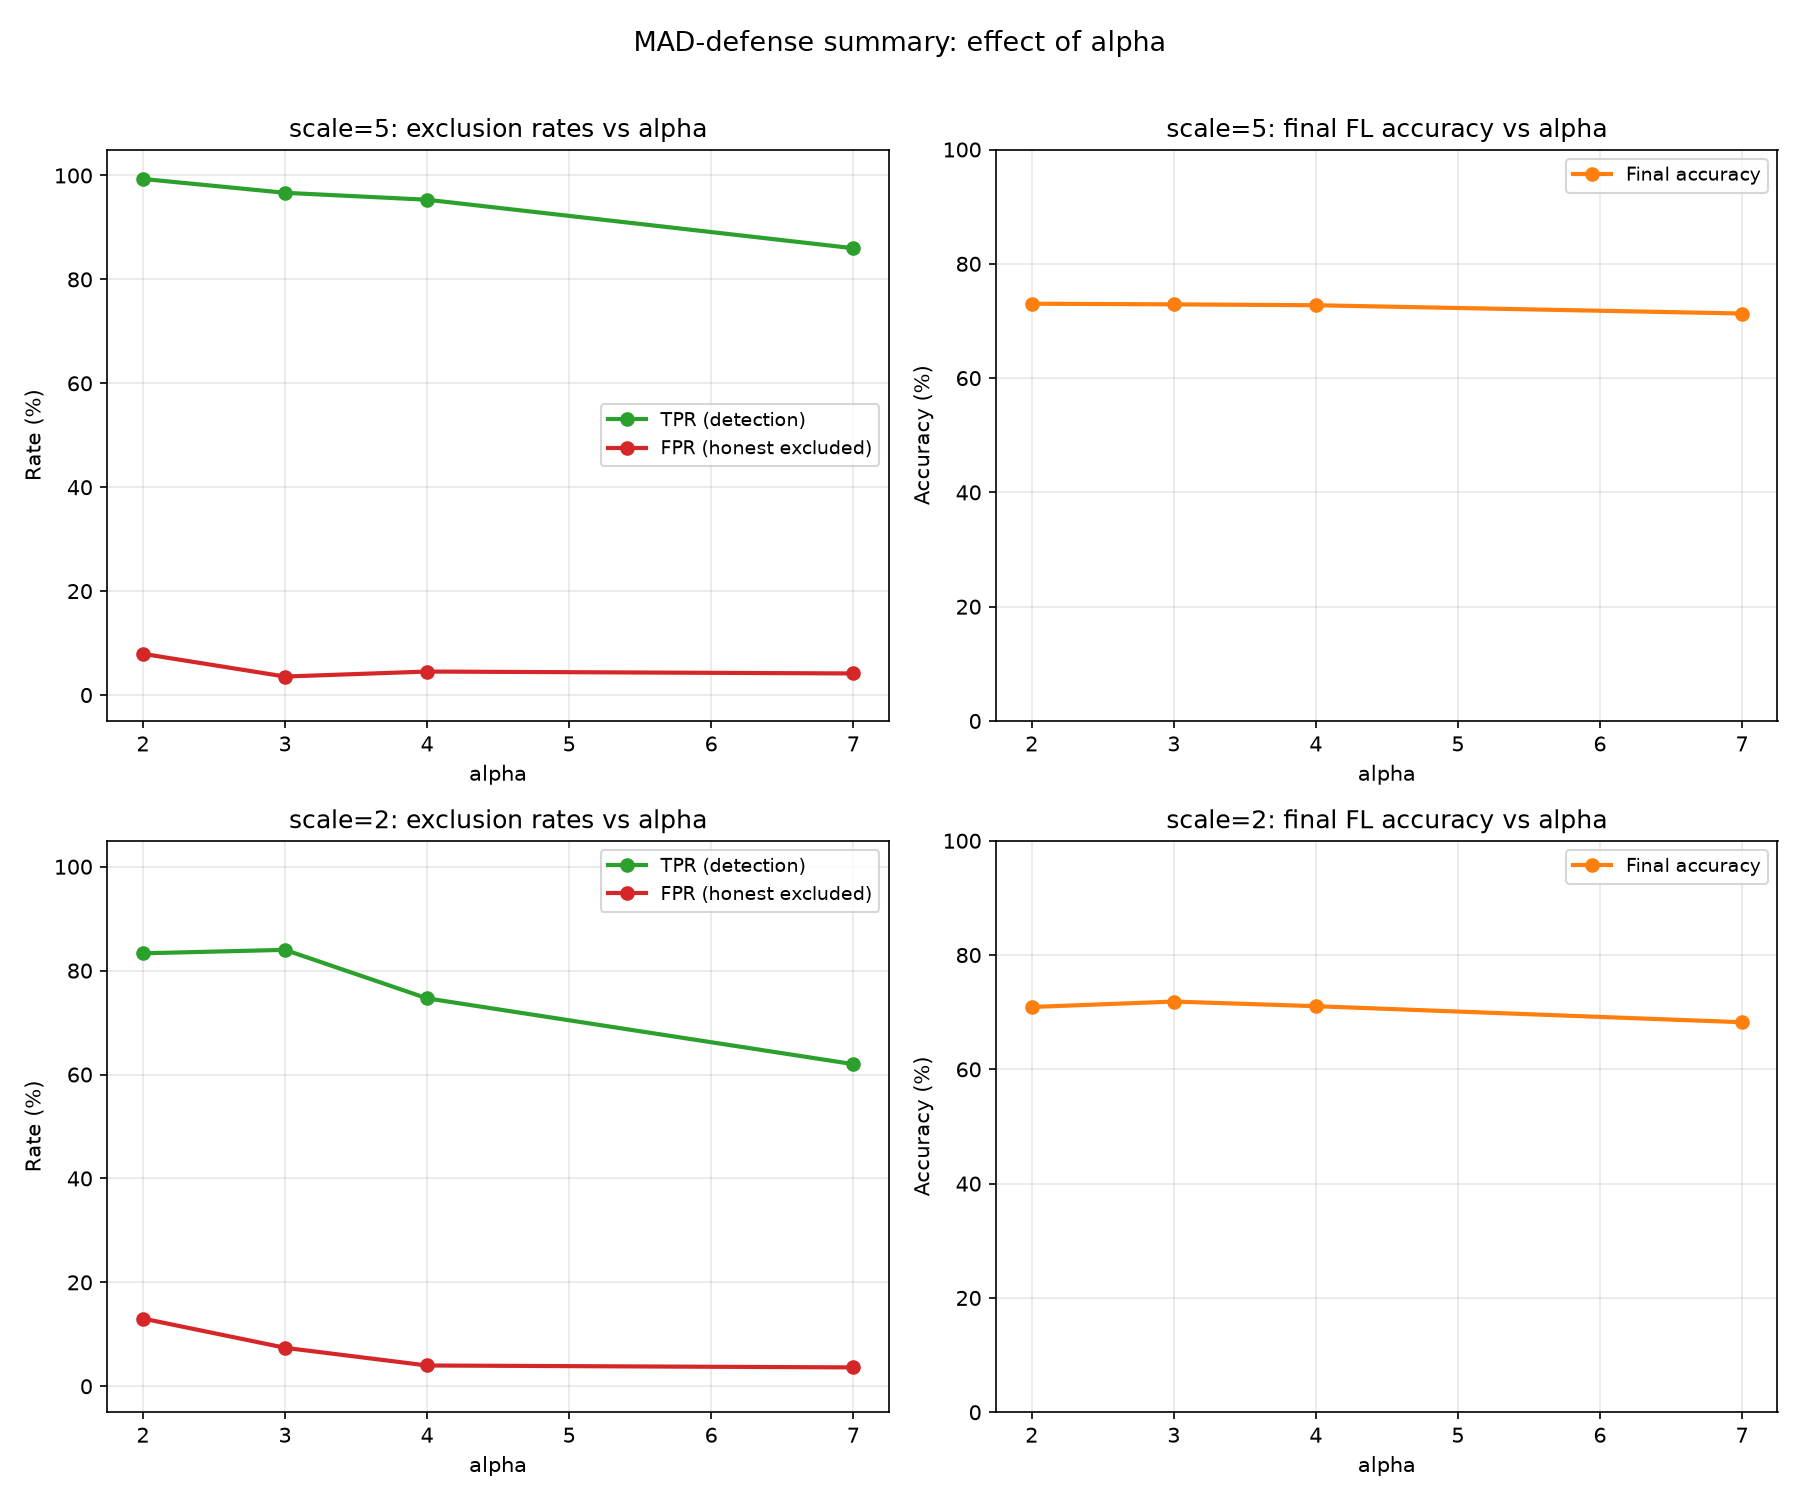
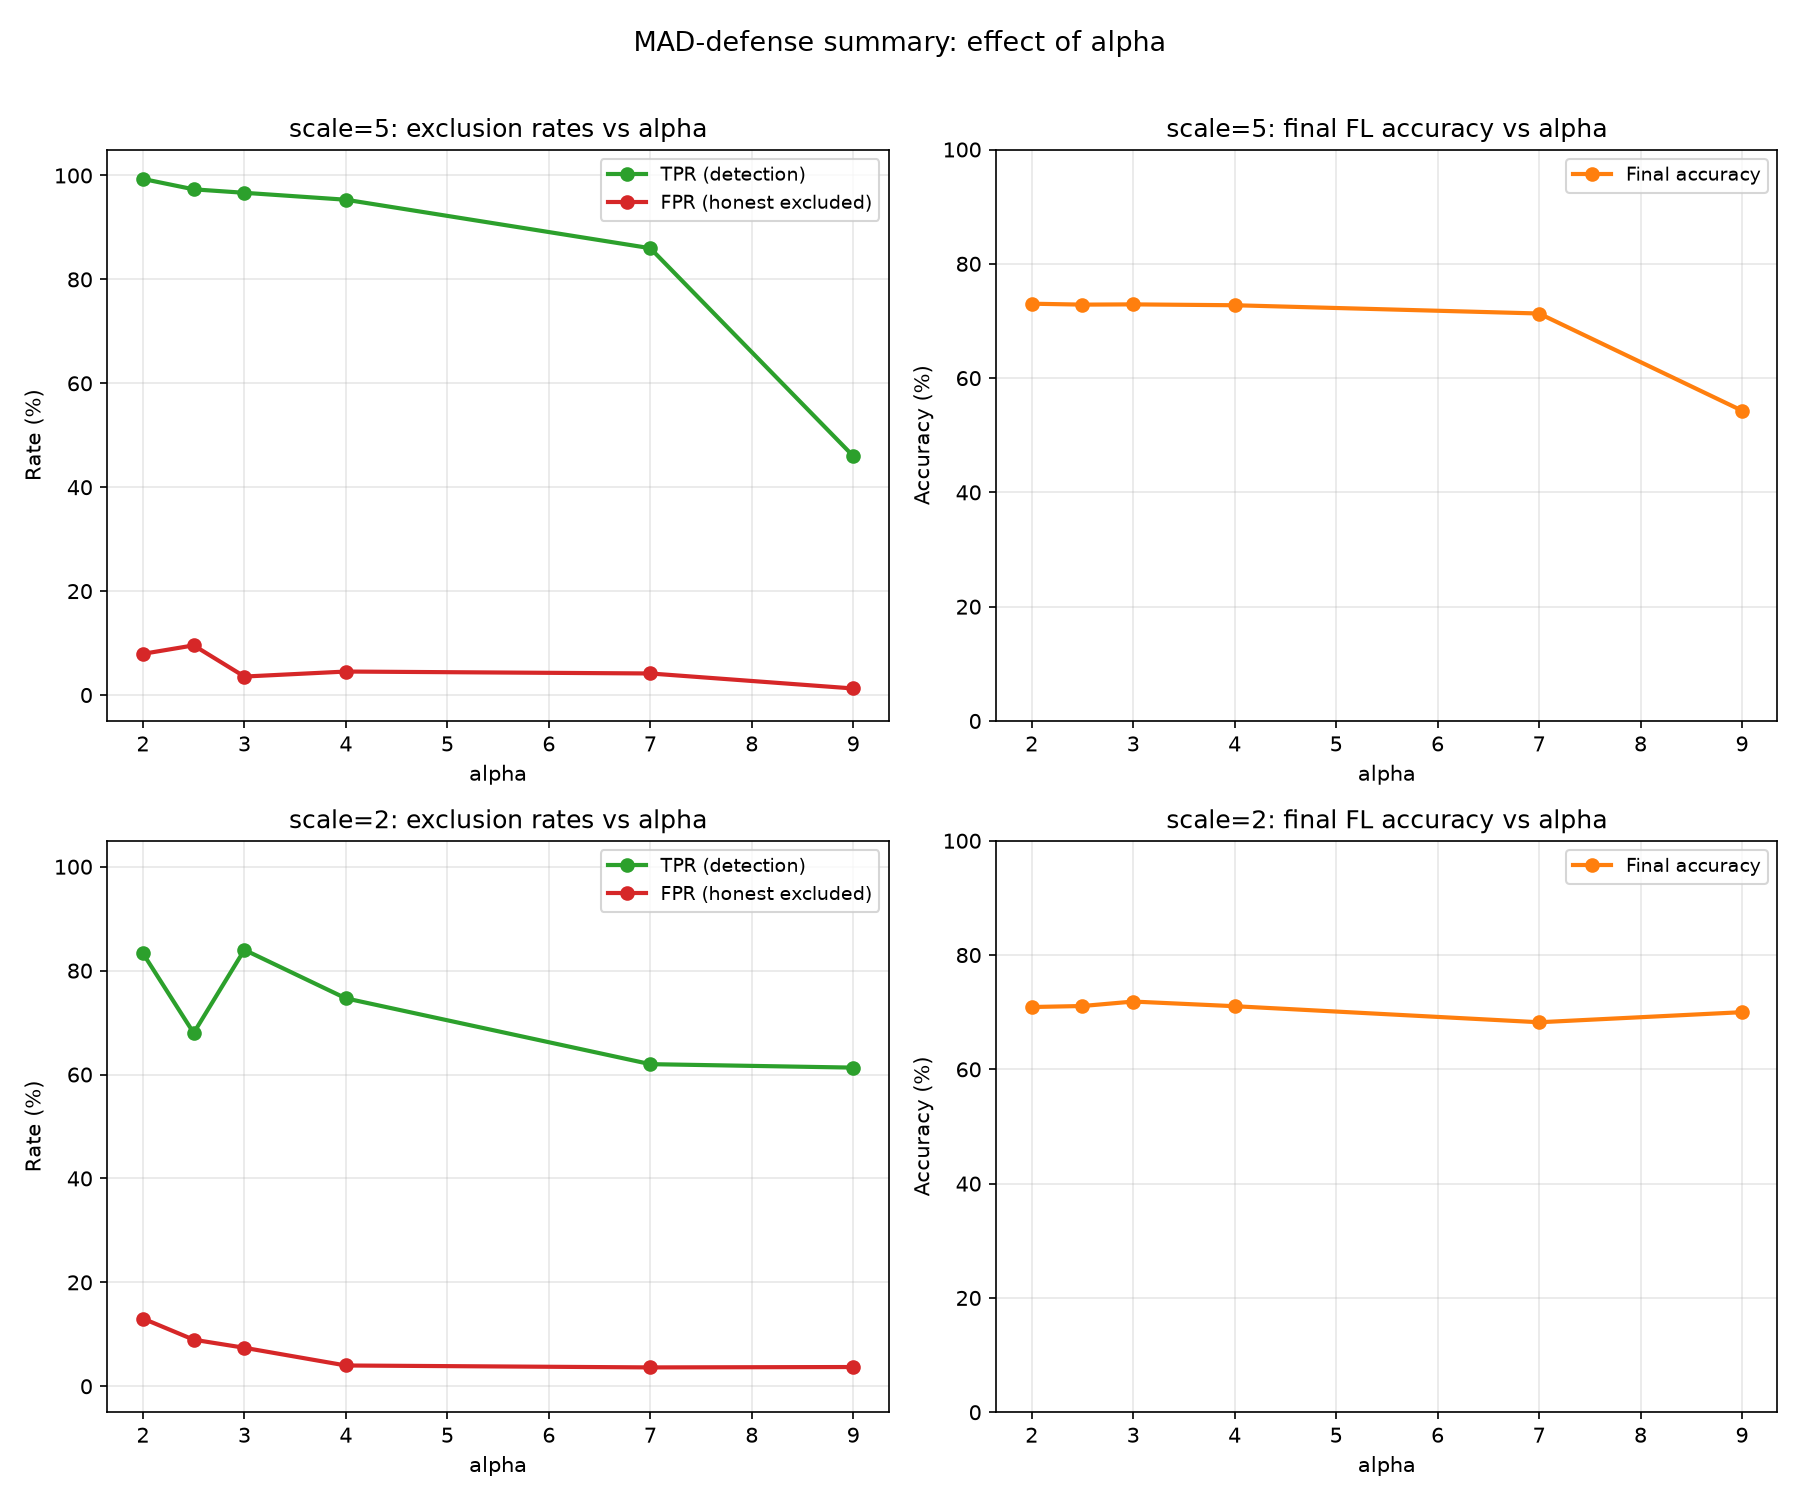
plots: include alpha 2.5/9 in the defense summary figure

diff --git a/utility scripts/plot_defense_mad.py b/utility scripts/plot_defense_mad.py
@@ -23,6 +23,7 @@ import numpy as np
 RESULTS_DIR = Path("results")
 
 ALPHAS = [2.0, 3.0, 4.0, 7.0]
+ALPHAS_FULL = [2.0, 2.5, 3.0, 4.0, 7.0, 9.0]  # for the summary figure/table
 SCALES = [5, 2]
 PRETRAIN_EPOCHS = 50
 LAMBDA = 0.01
@@ -130,6 +131,65 @@ def compute_auc(honest_bers, attacker_bers):
     return np.trapz(tpr, fpr)
 
 
+def compute_config_stats(runs, scale, alpha, pretrain_epochs):
+    """Per (scale, alpha): BER/trajectory data + summary metrics, cached."""
+    matches = find_mad_runs(runs, scale, alpha, pretrain_epochs)
+    honest_by_round = defaultdict(list)
+    attacker_by_round = defaultdict(list)
+    excluded_by_round = defaultdict(list)
+    is_att_by_round = defaultdict(list)
+    thr_by_round = defaultdict(list)
+    all_accs = []
+
+    for m in matches:
+        rid = m["run_id"]
+        train = load_train_data(rid)
+        server = load_server_data(rid)
+        if train is None:
+            continue
+        for rnd, clients in train.items():
+            bes = [ber for _, ber, _, _ in clients]
+            thr_by_round[rnd].append(mad_threshold(bes, alpha))
+            for pid, ber, is_att, excluded in clients:
+                (attacker_by_round if is_att else honest_by_round)[rnd].append(ber)
+                excluded_by_round[rnd].append(excluded)
+                is_att_by_round[rnd].append(is_att)
+        if server:
+            all_accs.append(server[1])
+
+    if not honest_by_round:
+        return None
+
+    rounds = sorted(honest_by_round.keys())
+    tpr_by_rnd, fpr_by_rnd = [], []
+    for rnd in rounds:
+        ex = np.array(excluded_by_round[rnd])
+        att = np.array(is_att_by_round[rnd])
+        n_att = att.sum()
+        n_hon = len(att) - n_att
+        if n_att > 0:
+            tpr_by_rnd.append((ex[att == 1].sum() / n_att) * 100)
+        if n_hon > 0:
+            fpr_by_rnd.append((ex[att == 0].sum() / n_hon) * 100)
+
+    tpr = np.mean(tpr_by_rnd) if tpr_by_rnd else np.nan
+    fpr = np.mean(fpr_by_rnd) if fpr_by_rnd else np.nan
+
+    all_honest = [b for rnd in rounds for b in honest_by_round[rnd]]
+    all_attacker = [b for rnd in rounds for b in attacker_by_round[rnd]]
+    dprime = compute_dprime(all_honest, all_attacker)
+    auc = compute_auc(all_honest, all_attacker)
+    final_acc = np.mean([a[-1] for a in all_accs]) if all_accs else np.nan
+
+    return {"rounds": rounds,
+            "honest_by_round": honest_by_round,
+            "attacker_by_round": attacker_by_round,
+            "thr_by_round": thr_by_round,
+            "tpr": tpr, "fpr": fpr,
+            "dprime": dprime, "auc": auc,
+            "final_acc": final_acc, "n": len(matches)}
+
+
 def main(pretrain_epochs=PRETRAIN_EPOCHS):
     runs = load_registry()
     print(f"Found {len(runs)} runs in registry")
@@ -142,94 +202,53 @@ def main(pretrain_epochs=PRETRAIN_EPOCHS):
     axes_ber = np.atleast_2d(axes_ber)
 
     summary_rows = []
+    cache = {}
+
+    def stats_for(scale, alpha):
+        key = (scale, alpha)
+        if key not in cache:
+            cache[key] = compute_config_stats(runs, scale, alpha, pretrain_epochs)
+        return cache[key]
 
     for si, scale in enumerate(SCALES):
         for ai, alpha in enumerate(ALPHAS):
-            matches = find_mad_runs(runs, scale, alpha, pretrain_epochs)
-            print(f"\n  scale={scale} alpha={alpha}: {len(matches)} runs")
-
-            honest_by_round = defaultdict(list)
-            attacker_by_round = defaultdict(list)
-            excluded_by_round = defaultdict(list)  # rnd -> [1 if excluded else 0 for each client]
-            is_att_by_round = defaultdict(list)    # rnd -> [1 if attacker else 0 for each client]
-            thr_by_round = defaultdict(list)
-            all_accs = []
-
-            for m in matches:
-                rid = m["run_id"]
-                train = load_train_data(rid)
-                server = load_server_data(rid)
-                if train is None:
-                    continue
-
-                for rnd, clients in train.items():
-                    bes = [ber for _, ber, _, _ in clients]
-                    thr_by_round[rnd].append(mad_threshold(bes, alpha))
-                    for pid, ber, is_att, excluded in clients:
-                        (attacker_by_round if is_att else honest_by_round)[rnd].append(ber)
-                        excluded_by_round[rnd].append(excluded)
-                        is_att_by_round[rnd].append(is_att)
-
-                if server:
-                    all_accs.append(server[1])
-
-            if not honest_by_round:
+            print(f"\n  scale={scale} alpha={alpha}: {len(find_mad_runs(runs, scale, alpha, pretrain_epochs))} runs")
+            st = stats_for(scale, alpha)
+            if st is None:
                 print(f"    WARNING: no data, skipping")
                 continue
-
-            # Per-round exclusion stats (mean over reps)
-            rounds = sorted(honest_by_round.keys())
-            tpr_by_rnd, fpr_by_rnd = [], []
-            for rnd in rounds:
-                ex = np.array(excluded_by_round[rnd])
-                att = np.array(is_att_by_round[rnd])
-                n_att = att.sum()
-                n_hon = len(att) - n_att
-                if n_att > 0:
-                    tpr_by_rnd.append((ex[att == 1].sum() / n_att) * 100)
-                if n_hon > 0:
-                    fpr_by_rnd.append((ex[att == 0].sum() / n_hon) * 100)
-
-            tpr = np.mean(tpr_by_rnd) if tpr_by_rnd else np.nan
-            fpr = np.mean(fpr_by_rnd) if fpr_by_rnd else np.nan
-
-            # Aggregate BERs for d' and AUC (all rounds, all reps)
-            all_honest = [b for rnd in rounds for b in honest_by_round[rnd]]
-            all_attacker = [b for rnd in rounds for b in attacker_by_round[rnd]]
-            dprime = compute_dprime(all_honest, all_attacker)
-            auc = compute_auc(all_honest, all_attacker)
-
-            final_acc = np.mean([a[-1] for a in all_accs]) if all_accs else np.nan
-            summary_rows.append((scale, alpha, tpr, fpr, dprime, auc, final_acc, len(matches)))
+            summary_rows.append((scale, alpha, st["tpr"], st["fpr"], st["dprime"],
+                                 st["auc"], st["final_acc"], st["n"]))
 
             # --- BER evolution subplot ---
             ax = axes_ber[si, ai]
-            h_means = [np.mean(honest_by_round[r]) for r in rounds]
-            h_stds = [np.std(honest_by_round[r]) for r in rounds]
+            rounds = st["rounds"]
+            h_means = [np.mean(st["honest_by_round"][r]) for r in rounds]
+            h_stds = [np.std(st["honest_by_round"][r]) for r in rounds]
             ax.plot(rounds, h_means, "C0-", linewidth=2, label="Honest")
             ax.fill_between(rounds, [m - s for m, s in zip(h_means, h_stds)],
                             [m + s for m, s in zip(h_means, h_stds)],
                             color="C0", alpha=0.15)
 
-            common = sorted(set(rounds) & set(attacker_by_round.keys()))
+            common = sorted(set(rounds) & set(st["attacker_by_round"].keys()))
             if common:
-                a_means = [np.mean(attacker_by_round[r]) for r in common]
-                a_stds = [np.std(attacker_by_round[r]) for r in common]
+                a_means = [np.mean(st["attacker_by_round"][r]) for r in common]
+                a_stds = [np.std(st["attacker_by_round"][r]) for r in common]
                 ax.plot(common, a_means, "C3--", linewidth=2, label="Attacker")
                 ax.fill_between(common,
                                 [max(0, m - s) for m, s in zip(a_means, a_stds)],
                                 [m + s for m, s in zip(a_means, a_stds)],
                                 color="C3", alpha=0.15)
 
-            if thr_by_round:
-                t_rounds = sorted(thr_by_round.keys())
-                t_means = [np.mean(thr_by_round[r]) for r in t_rounds]
+            if st["thr_by_round"]:
+                t_rounds = sorted(st["thr_by_round"].keys())
+                t_means = [np.mean(st["thr_by_round"][r]) for r in t_rounds]
                 ax.plot(t_rounds, t_means, "C1-", linewidth=1.5,
                         label=f"Threshold (median+{alpha}·MAD)")
 
             ax.set_xlabel("FL Round")
             ax.set_ylabel("Watermark BER")
-            ax.set_title(f"sign-flip scale={scale}, α={alpha}  (TPR {tpr:.0f}%, FPR {fpr:.0f}%)",
+            ax.set_title(f"sign-flip scale={scale}, α={alpha}  (TPR {st['tpr']:.0f}%, FPR {st['fpr']:.0f}%)",
                          fontsize=11)
             ax.set_ylim(-0.05, 1.0)
             ax.grid(True, alpha=0.3)
@@ -244,6 +263,17 @@ def main(pretrain_epochs=PRETRAIN_EPOCHS):
     print(f"\nSaved {ber_path}")
 
     # --- Summary figure: metrics vs alpha for each scale ---
+    for scale in SCALES:
+        for alpha in ALPHAS_FULL:
+            if any((r[0], r[1]) == (scale, alpha) for r in summary_rows):
+                continue
+            st = stats_for(scale, alpha)
+            if st is None:
+                continue
+            summary_rows.append((scale, alpha, st["tpr"], st["fpr"], st["dprime"],
+                                 st["auc"], st["final_acc"], st["n"]))
+    summary_rows.sort(key=lambda r: (r[0], r[1]))
+
     n_metrics = 2  # exclusion rates + final accuracy
     fig_sum, axes_sum = plt.subplots(n_rows, n_metrics, figsize=(6 * n_metrics, 5 * n_rows))
     axes_sum = np.atleast_2d(axes_sum)
